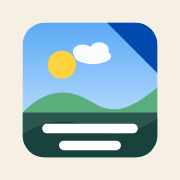
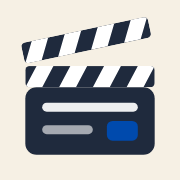
1.01：場記板圖示，頁首標題旁加上圖示
- favicon.svg 換成場記板（米色底、深色板身、白斜紋、藍色標籤）
- 16／32px PNG、favicon.ico、apple-touch-icon（180px）從同一份 SVG 轉出
- 頁首標題左邊加上 <img src="favicon.svg">（單一原稿）
- DESIGN／README 記錄圖示規則，changelog 1.01，e2e 檢查頁首圖示

Claude-Session: https://claude.ai/code/session_01KGZ3kGU1gJFHNe1KRRYXuF

diff --git a/test/edit-ui.e2e.js b/test/edit-ui.e2e.js
@@ -1752,6 +1752,8 @@ async function runLayoutTests(browser, base, [W, H]) {
     const { ctx, page } = await open();
     await goEdit(page);
     ok(await page.isVisible('#edThemeBtn'), '頁首有深色／淺色開關');
+    const ic = await page.evaluate(() => { const i = document.querySelector('h1.topbar-title .brand-ic'); return i && { ok: i.complete && i.naturalWidth > 0, w: Math.round(i.getBoundingClientRect().width), src: i.getAttribute('src') }; });
+    ok(ic && ic.ok && ic.w === 30 && ic.src === 'favicon.svg', `頁首標題旁有場記板圖示（${JSON.stringify(ic)}）`);
     eq(await attr(page), 'dark', '預設深色（data-ed-theme=dark）');
     eq(await page.getAttribute('#edThemeBtn', 'aria-pressed'), 'true', '開關 aria-pressed=true（深色）');
     ok((await page.getAttribute('#edThemeBtn', 'title')).includes('深色'), '開關有 title');

diff --git a/index.html b/index.html
@@ -17,10 +17,10 @@
 <link rel="stylesheet" href="edit.css">
 </head>
 <body>
-<!-- 上排：名稱靠左、右側深色／淺色開關（edit-ui.js 接上） -->
+<!-- 上排：場記板圖示＋名稱靠左（圖示和網站 favicon 同一個檔案）、右側深色／淺色開關（edit-ui.js 接上） -->
 <header class="topbar">
   <div class="topbar-inner">
-    <h1 class="topbar-title">QuickCut 影片剪輯</h1>
+    <h1 class="topbar-title"><img class="brand-ic" src="favicon.svg" alt="" width="30" height="30">QuickCut 影片剪輯</h1>
     <div class="topbar-actions">
       <button type="button" id="edThemeBtn" class="help-btn ed-theme-btn" aria-pressed="true" title="切換深色／淺色（目前：深色）"><span class="ed-theme-ic" aria-hidden="true">☾</span><span class="ed-theme-tx">深色</span></button>
     </div>

diff --git a/base.css b/base.css
@@ -74,7 +74,9 @@ header.topbar {
 h1.topbar-title {
   margin: 0; font-family: var(--ui-font); font-size: 18px; font-weight: 700; font-synthesis: weight;
   letter-spacing: 0; color: var(--text); white-space: nowrap;
+  display: flex; align-items: center; gap: 10px;
 }
+.brand-ic { display: block; width: 30px; height: 30px; flex: none; }
 .topbar-actions { margin-left: auto; display: flex; gap: 8px; flex-wrap: wrap; }
 .topbar-actions .help-btn {
   margin: 0; border: none; border-radius: 999px; padding: 11px 22px;

diff --git a/test/changelog.test.js b/test/changelog.test.js
@@ -21,7 +21,7 @@ test('每一筆都有簡述與條列', () => {
   }
 });
 
-test('目前版本是 1.00', () => {
+test('目前版本是 1.01', () => {
   const latest = versions.map(Number).sort((a, b) => b - a)[0];
-  assert.equal(latest.toFixed(2), '1.00');
+  assert.equal(latest.toFixed(2), '1.01');
 });

diff --git a/DESIGN.md b/DESIGN.md
@@ -19,6 +19,9 @@
 - 主色 `#004aad`（深藍），深色 `#003a87`，淺底 `#e8f0fc`；文字 `#1f2a3d`、次要文字 `#6b7890`；背景 `#f2f6fc`。
 - 介面字型用系統內建中文字（字重完整、小字清晰）；專用粗體字 `WHZ-Heavy` 是字幕的預設字型。
 - 控制項統一用**圓角膠囊**。
+- **圖示（場記板）**：米色圓角底（`#f6f0e4`，和 QuickPatterntool 的圖示同一系列）、深色板身（`#1f2a3d`）、上下兩條白斜紋、板身兩條字線和一個主色藍標籤；上拍板以左邊鉸鏈張開 12°，角度算過不會超出底框。三款候選（經典黑白／品牌藍／時間軸）中選了這款，因為最好辨認。［程式碼］
+  - `favicon.svg` 是唯一的原稿；頁首標題旁的 `.brand-ic` 直接 `<img src="favicon.svg">`，不另外複製一份 SVG，改圖只要改一個檔。［程式碼］
+  - `favicon-16x16.png`、`favicon-32x32.png`（透明背景）、`apple-touch-icon.png`（180px、整塊米色底不透明，iOS 會自己裁圓角）與 `favicon.ico`（16＋32）都從 `favicon.svg` 用 Chromium 轉出來；改了 SVG 要一起重轉。［程式碼］
 
 ## 3. 剪輯（`edit-*.js`）
 

diff --git a/README.md b/README.md
@@ -139,7 +139,8 @@
 | `fonts/` | 仙人掌明體（Cactus Classical Serif，SIL OFL 1.1，授權見 `fonts/OFL-CactusClassicalSerif.txt`），用到才下載 |
 | `changelog.json` | 各版本的更動紀錄 |
 | `test/` | 單元測試與瀏覽器流程測試（見下方） |
-| `favicon*` / `apple-touch-icon.png` | 網站圖示 |
+| `favicon.svg` | 圖示原稿（場記板），頁首標題旁的圖示也用它 |
+| `favicon-*.png` / `favicon.ico` / `apple-touch-icon.png` | 從 `favicon.svg` 轉出的各尺寸圖示 |
 
 ## 本地開發
 
